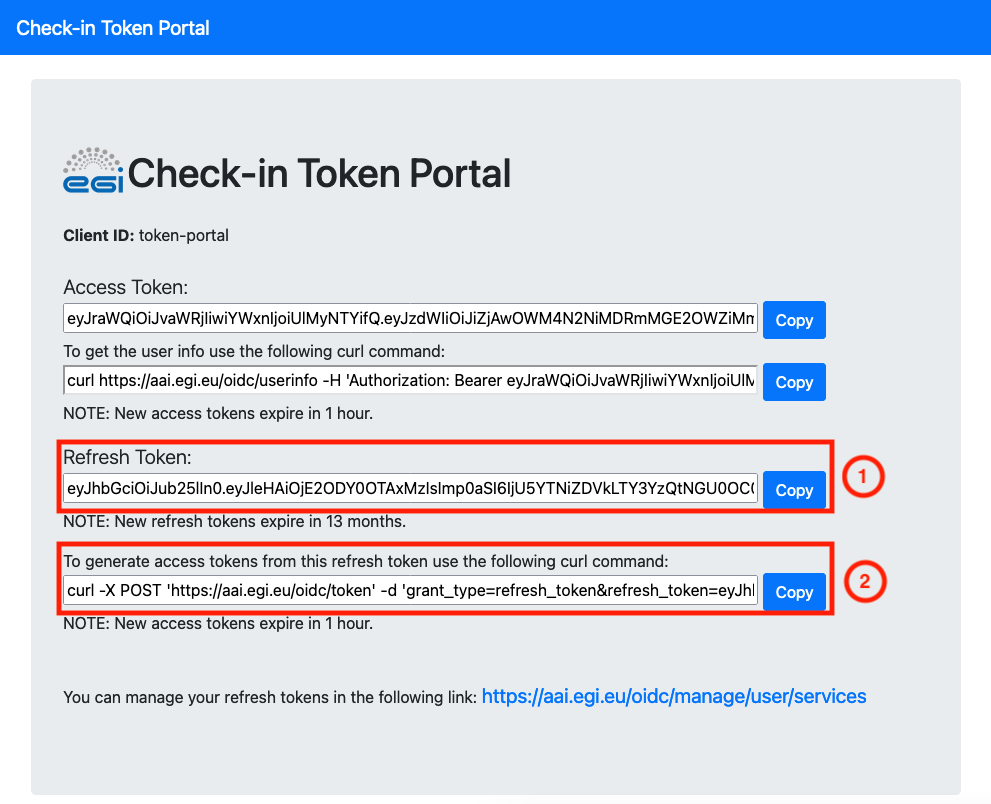
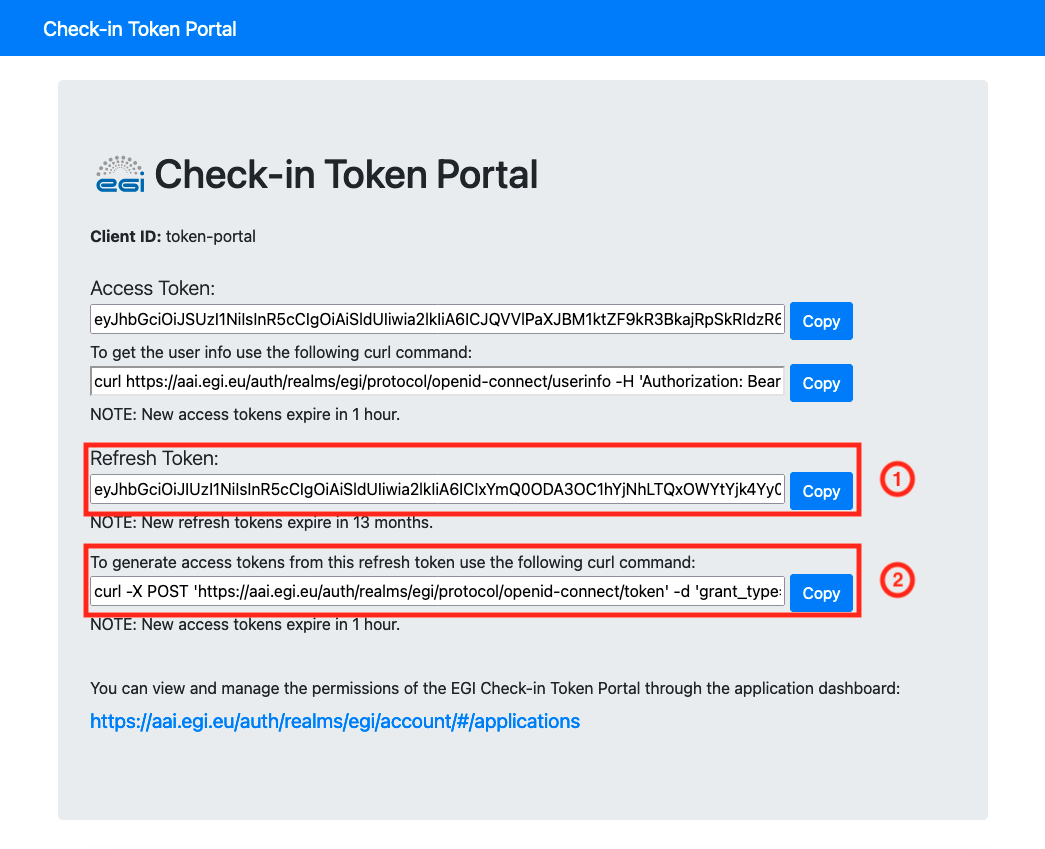
[Check-in] Update Token Portal guide (#504)
* Remove Token Portal Migration section
* Update screenshots with new dashboard link
* Update description of the dashboard

Changed region(s): [[0.0303, 0.1866, 0.9082, 0.9017], [0.0303, 0.0, 0.2422, 0.0622]]

diff --git a/content/en/users/aai/check-in/obtaining-tokens/token-portal/_index.md b/content/en/users/aai/check-in/obtaining-tokens/token-portal/_index.md
@@ -24,7 +24,7 @@ the steps below:
    2. The command to get user's information from userinfo endpoint
    3. Obtain a Refresh Token (more info in
       [Obtain a Refresh Token](#obtain-a-refresh-token) section)
-   4. Manage your active Access/Refresh Tokens
+   4. View and manage the applications you have given permissions
 
 ## Obtain a Refresh Token
 
@@ -40,18 +40,3 @@ follow the steps below:
    ![EGI Check-in Token Portal Refresh Token](check-in-token-refresh-token.png)
    1. The value of the Refresh Token
    2. The command to generate new Access Token using the Refresh Token
-
-## EGI Check-in OpenID Provider Migration
-
-As of July 2022, we are migrating EGI Check-in OpenID Provider to a new Authorisation
-Server, as a result the Refresh Tokens, issued by the legacy Authorisation Server,
-will not be accepted by the new one and you won't be able to generate new Access
-Tokens with them. In this case you need to create a new Refresh Token using the
-environment-specific EGI Check-in Token Portal, which is integrated with the new
-EGI Check-in OpenID Provider. In the following table you can find the URLs of the
-various instances:
-
-| EGI Check-in OpenID Provider Instances | EGI Check-in Token Portal Instances |
-| -------------------------------------- | ----------------------------------- |
-| EGI Check-in OpenID Provider - New     | <https://aai.egi.eu/token-keycloak> |
-| EGI Check-in OpenID Provider - Legacy  | <https://aai.egi.eu/token>          |
